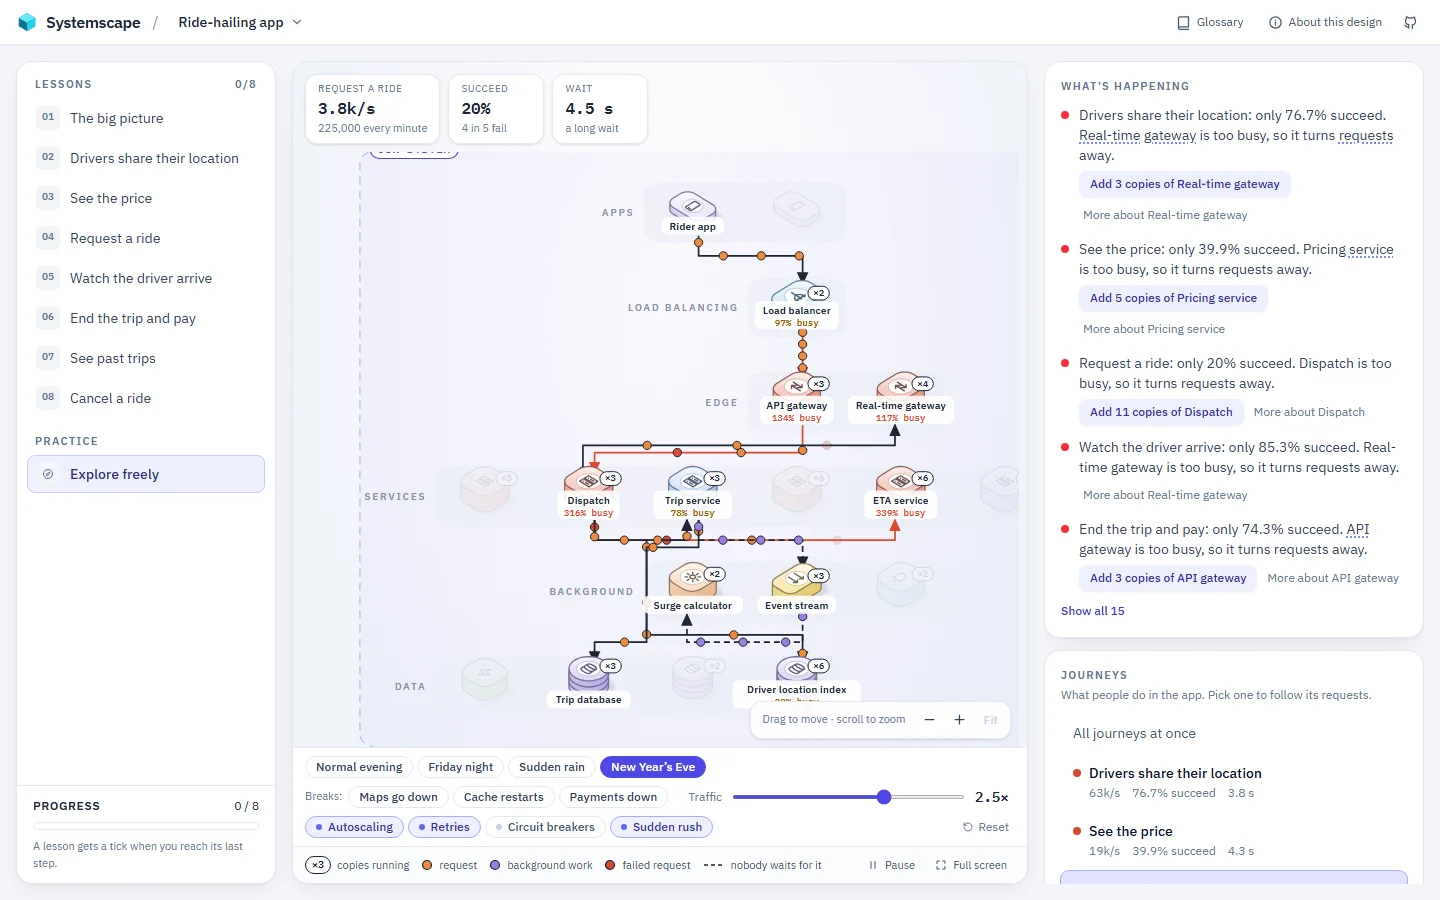
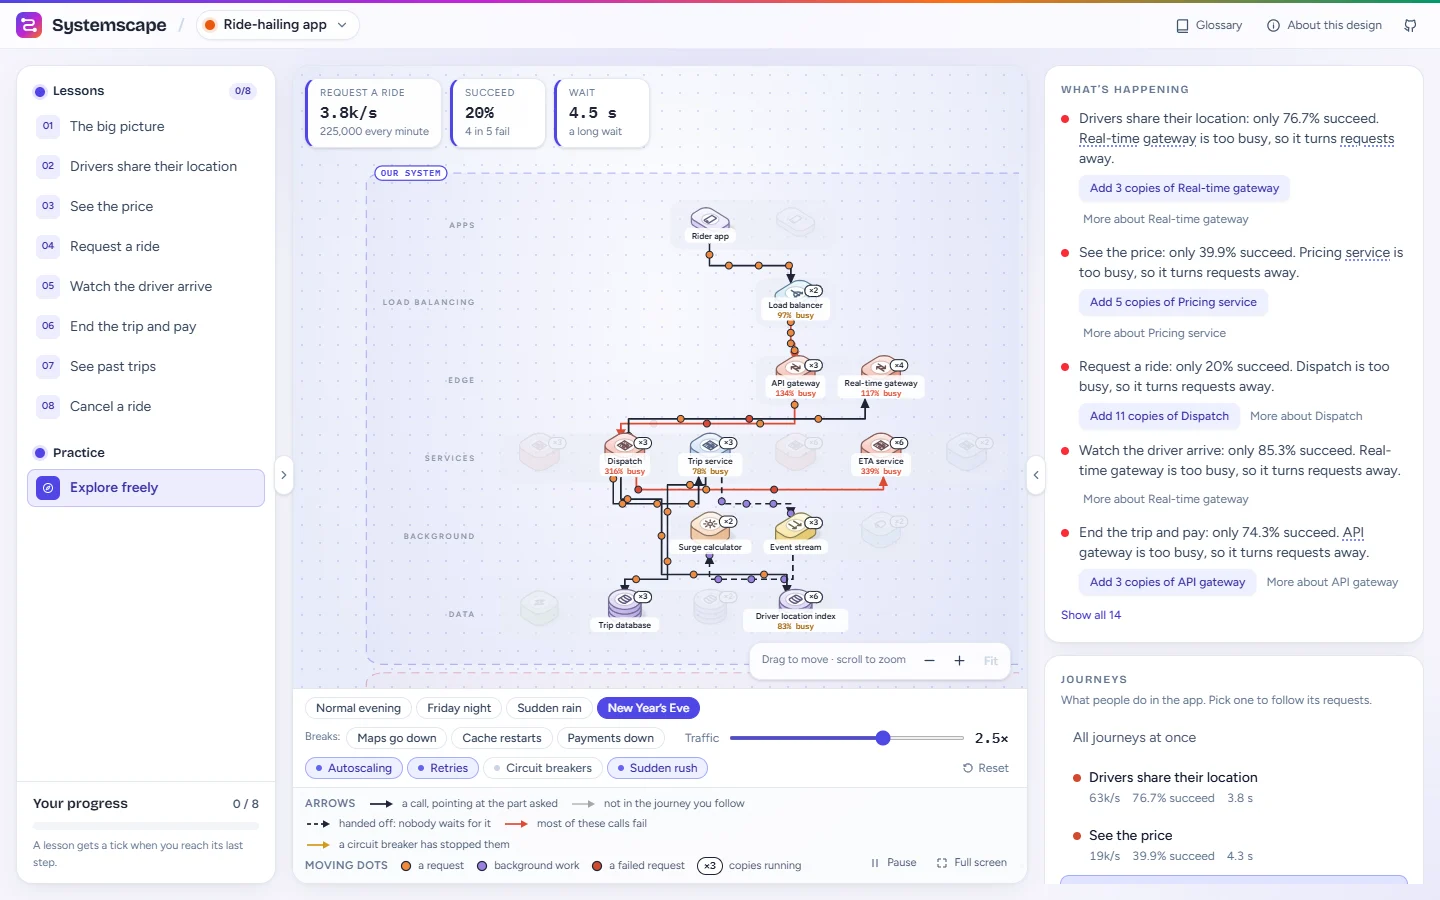
Retake the screenshots in the new look
The README's screenshots showed the old design. They're retaken at the
same size (1440 x 900): a lesson step with what's sent, the sudden rain,
and Explore freely on New Year's Eve. A full-page shot of the home page,
with the fundamentals' path and the posters, now opens the README.

diff --git a/README.md b/README.md
@@ -8,7 +8,7 @@ There are four systems so far: a **ride-hailing app** like Uber or Ola, a **vide
 
 New to system design? Start with **the fundamentals**: eleven tracks, 66 lessons (how requests work, performance, scaling, storing data, data on many machines, communication, reliability, architecture, security, shipping, and whole systems) that teach the ideas every system here is built from, one at a time, on a small shop app. Each lesson names every common way of doing it, how each works, what it costs, and when to choose it, and shows it happening: latency percentiles and napkin math, load balancing algorithms and layer 4 against layer 7, cache writes and stampedes, CDNs, autoscaling, SQL and the kinds of NoSQL, indexes, storage engines, transactions and isolation levels, replication, quorums, sharding, consistent hashing, unique IDs, CAP, consensus, REST, gRPC and GraphQL, queues, Kafka, WebSockets and webhooks, failover and disaster recovery, retries, circuit breakers, rate limiting algorithms, observability and SLOs, microservices, service discovery, sagas, stream processing, authentication, authorization, encryption, testing and deployments. The last track puts it all together: how to approach a design, then a URL shortener, a news feed and a chat app, built up a piece at a time.
 
-![A lesson following a ride request: the diagram zoomed in on the call being explained, and the step's explanation beside it, with what's actually sent](docs/screenshots/overview.webp)
+![The home page: the fundamentals as a winding path of eleven tracks, each in its own colour, and the four systems, each with a drawn poster](docs/screenshots/home.webp)
 
 ## About
 
@@ -20,6 +20,8 @@ Architecture diagrams are static: they show the boxes, not what happens when Fri
 - **See what breaks.** Each lesson ends on a night that shows something new: too much traffic (a sudden rainstorm, New Year's Eve), or a part breaking (the maps, the surge cache, the payment provider). What gets overloaded, how the failure spreads, what keeps working, and how many requests still succeed.
 - **Fix it yourself.** Each lesson ends by opening Explore freely on that night. Push the traffic up, take parts down, switch safety features on and off. Beside the diagram, every problem says what's failing and why, with a fix to try in one click: add copies of what's overloaded, bring back what's down, turn on circuit breakers. Full screen gives the diagram the whole screen, with the side panel there or hidden.
 - **Check the sources.** The design is based on engineering talks and posts, listed with each system, and says plainly that it's a simplified version, not any company's actual system.
+
+![A lesson following a ride request: the diagram zoomed in on the call being explained, and the step's explanation beside it, with what's actually sent](docs/screenshots/overview.webp)
 
 | What breaks in a sudden rainstorm                                                                                                  | Explore freely, with a fix for each problem                                                        |
 | ---------------------------------------------------------------------------------------------------------------------------------- | -------------------------------------------------------------------------------------------------- |

diff --git a/docs/adr/0010-a-look-of-its-own.md b/docs/adr/0010-a-look-of-its-own.md
@@ -24,4 +24,3 @@ The app worked, but it looked like a default dashboard: grey page, white cards, 
 - Two font packages replace one. The fonts are woff2 files loaded by CSS, not JavaScript.
 - A new system should get a colour in `palette.ts`, or it takes a spare one, and ideally a poster. Neither is required.
 - More things move on the front page. All of it stops for people who ask for reduced motion.
-- The screenshots in `docs/screenshots` show the old look until they're taken again.
